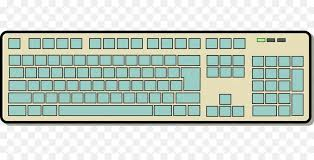
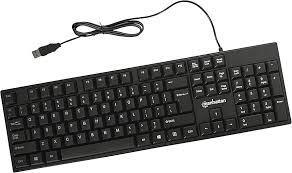
Final Commit

diff --git a/home_update1.html b/home_update1.html
@@ -60,11 +60,12 @@
 <br>
 <br>
 <h1>Conestoga Computer Accessories</h1>
-<p>Shop the products avaible in our website are as follows :</p>
+<hr>
+<h2>Shop the products avaible in our website are as follows :</h2>
         <div class="responsive">
             <div class="gallery">
-              <a target="_blank" href="images/keyboard1.jpg">
-                <img src="images/k1.jpg" alt="Cinque Terre" width="600" height="400">
+              <a target="_blank" href="images/keyboard1.1.jpeg">
+                <img src="images/keyboard1.1.jpeg" alt="Cinque Terre" width="250" height="200">
               </a>
               <div class="desc"><a href="keyboard_update1.html">Keyborad</a></div>
             </div>
@@ -78,7 +79,7 @@
           <div class="responsive">
             <div class="gallery">
               <a target="_blank" href="images/mouse1.jpg">
-                <img src="images/m1.jpg" alt="Cinque Terre" width="600" height="400">
+                <img src="images/m1.jpg" alt="Cinque Terre" width="250" height="200">
               </a>
               <div class="desc"><a href="mouse_update1.html">Mouse</a></div>
             </div>
@@ -92,7 +93,7 @@
           <div class="responsive">
             <div class="gallery">
               <a target="_blank" href="images/keyboard2.jpg">
-                <img src="images/s1.jpg" alt="Cinque Terre" width="600" height="400">
+                <img src="images/scanner.jpeg" alt="Cinque Terre" width="250" height="200">
               </a>
               <div class="desc"><a href="">Scanner</a></div>
             </div>
@@ -106,7 +107,7 @@
           <div class="responsive">
             <div class="gallery">
               <a target="_blank" href="images/mouse2.jpg">
-                <img src="images/mo1.jpg" alt="Cinque Terre" width="600" height="400">
+                <img src="images/monitor.jpeg" alt="Cinque Terre" width="250" height="200">
               </a>
               <div class="desc"><a href="">Moniter</a></div>
             </div>
@@ -135,9 +136,9 @@
                 </div>
                 
                 <div>
-                    <img src="images/printer.jpg" alt="Mouse1"> </div>
+                    <img src="images/printer1.jpg" alt="Mouse1"> </div>
                     <div>
-                    <img src="images/scanner.jpg" alt="Keyboard-2">
+                    <img src="images/scanner1.jpg" alt="Keyboard-2">
                 </div>
             </div>
         

diff --git a/mouse2_update2.html b/mouse2_update2.html
@@ -11,7 +11,7 @@
 
             font-family: verdena;
             text-align: center;
-            background-color: white;
+           /*background-color: white; */
             background-image: url(images/bg\ mk.jpg);
             background-repeat: no-repeat;
 
@@ -113,19 +113,19 @@
             <hr>
 
             <main>
-                <div class="images">
+                <div class = "images">
                     <div>
-                        <img src="images/mouse1.jpg" alt="Keyboard">
+                   <img src="images/mouse1.jpg" alt="Keyboard">
                     </div>
                     <div>
-                        <img src="images/keyboard1.jpg" alt="Mouse">
-                    </div>
-
+                   <img src="images/keyboard1.jpg" alt="Mouse">
+                </div>
+                
+                <div>
+                    <img src="images/printer1.jpg" alt="Mouse1"> </div>
                     <div>
-                        <img src="images/printer.jpg" alt="Mouse1"> </div>
-                        <div>
-                        <img src="images/scanner.jpg" alt="Keyboard-2">
-                    </div>
+                    <img src="images/scanner1.jpg" alt="Keyboard-2">
+                </div>
                 </div>
 
 

diff --git a/keyboard2_update2.html b/keyboard2_update2.html
@@ -11,7 +11,7 @@
 
             font-family: verdena;
             text-align: center;
-            background-color: white;
+            /* background-color: white; */
             background-image: url(images/bg\ mk.jpg);
             background-repeat: no-repeat;
 
@@ -111,17 +111,19 @@
 
         <main>
             <div class="images">
-                <div>
-                    <img src="images/mouse1.jpg" alt="Keyboard">
+                <div class = "images">
+                    <div>
+                   <img src="images/mouse1.jpg" alt="Keyboard">
+                    </div>
+                    <div>
+                   <img src="images/keyboard1.jpg" alt="Mouse">
                 </div>
+                
                 <div>
-                    <img src="images/keyboard1.jpg" alt="Mouse">
+                    <img src="images/printer1.jpg" alt="Mouse1"> </div>
+                    <div>
+                    <img src="images/scanner1.jpg" alt="Keyboard-2">
                 </div>
-                <div>
-                    <img src="images/printer.jpg" alt="Mouse1">
-                </div>
-                <div>
-                    <img src="images/scanner.jpg" alt="Keyboard-2">
 
                     </ul>
                     </p>

diff --git a/privacy_update1.html b/privacy_update1.html
@@ -64,19 +64,19 @@
         <br>
 
         <main>
-            <div class="images">
+            <div class = "images">
                 <div>
-                    <img src="images/mouse1.jpg" alt="Keyboard">
+               <img src="images/mouse1.jpg" alt="Keyboard">
                 </div>
                 <div>
-                    <img src="images/keyboard1.jpg" alt="Mouse">
-                </div>
+               <img src="images/keyboard1.jpg" alt="Mouse">
+            </div>
+            
+            <div>
+                <img src="images/printer1.jpg" alt="Mouse1"> </div>
                 <div>
-                    <img src="images/printer.jpg" alt="Mouse1">
-                </div>
-                <div>
-                    <img src="images/scanner.jpg" alt="Keyboard-2">
-                </div>
+                <img src="images/scanner1.jpg" alt="Keyboard-2">
+            </div>
             </div>
 
 

diff --git a/order tracking_update2.html b/order tracking_update2.html
@@ -125,17 +125,18 @@
         <hr>
        
         <div class = "images">
-            <div>
-              <img src="images/printer.jpg" alt="Mouse1"> </div>
-              <div>
-              <img src="images/scanner.jpg" alt="Keyboard-2">
-        </div>
-        
-        <div>
-            <img src="images/mouse2.jpg" alt="Mouse1"> </div>
-            <div>
-            <img src="images/keyboard2.jpg" alt="Keyboard-2">
-        </div>
+          <div>
+         <img src="images/mouse1.jpg" alt="Keyboard">
+          </div>
+          <div>
+         <img src="images/keyboard1.jpg" alt="Mouse">
+      </div>
+      
+      <div>
+          <img src="images/printer1.jpg" alt="Mouse1"> </div>
+          <div>
+          <img src="images/scanner1.jpg" alt="Keyboard-2">
+      </div>
     </div>
 
        </ul>

diff --git a/mouse_update1.html b/mouse_update1.html
@@ -37,6 +37,12 @@
                 2. Wired Mouse <br>
                 3. Mechanical Mouse <br>
                 4. RGB Mouse <br>
+                5. Type-5 <br>
+                6. Type-6 <br>
+                7. Typr-7 <br>
+                8. Type-8 <br>
+                9. Type-9 <br>
+                10. Type-10 <br>
             </p>
 
             <br>
@@ -53,9 +59,9 @@
                 </div>
                 
                 <div>
-                    <img src="images/printer.jpg" alt="Mouse1"> </div>
+                    <img src="images/printer1.jpg" alt="Mouse1"> </div>
                     <div>
-                    <img src="images/scanner.jpg" alt="Keyboard-2">
+                    <img src="images/scanner1.jpg" alt="Keyboard-2">
                 </div>
             </div>
         

diff --git a/keyboard_update1.html b/keyboard_update1.html
@@ -34,6 +34,13 @@
             2. Wired keyboards <br>
             3. Mechanical keyboards <br>
             4. RGB keyboards <br>
+            5. Type-5 <br>
+            6. Type-6 <br>
+            7. Typr-7 <br>
+            8. Type-8 <br>
+            9. Type-9 <br>
+            10. Type-10 <br>
+        </p>
         </p>
 
         <br>
@@ -50,9 +57,9 @@
             </div>
             
             <div>
-                <img src="images/printer.jpg" alt="Mouse1"> </div>
+                <img src="images/printer1.jpg" alt="Mouse1"> </div>
                 <div>
-                <img src="images/scanner.jpg" alt="Keyboard-2">
+                <img src="images/scanner1.jpg" alt="Keyboard-2">
             </div>
         </div>
     

diff --git a/login_update1.html b/login_update1.html
@@ -94,11 +94,12 @@
         <div>
        <img src="images/keyboard1.jpg" alt="Mouse">
     </div>
+    
     <div>
-    <img src="images/printer.jpg" alt="Mouse1"> </div>
-    <div>
-    <img src="images/scanner.jpg" alt="Keyboard-2">
-</div>
+        <img src="images/printer1.jpg" alt="Mouse1"> </div>
+        <div>
+        <img src="images/scanner1.jpg" alt="Keyboard-2">
+    </div>
 
    </ul>
 </p>

diff --git a/index.html b/index.html
@@ -86,9 +86,9 @@
         </div>
         
         <div>
-            <img src="images/printer.jpg" alt="Mouse1"> </div>
+            <img src="images/printer1.jpg" alt="Mouse1"> </div>
             <div>
-            <img src="images/scanner.jpg" alt="Keyboard-2">
+            <img src="images/scanner1.jpg" alt="Keyboard-2">
         </div>
     </div>
 

diff --git a/styles_update1.css b/styles_update1.css
@@ -24,7 +24,8 @@
 body {
     margin: 0%;
     padding: 0%;
-    background-image:url('images/bg\ mk.jpg');
+    /* background-image:url('images/bg\ mk.jpg'); */
+    background-color: cornsilk;
         background-size: cover;
     background-repeat: no-repeat;
     background-position:center;
